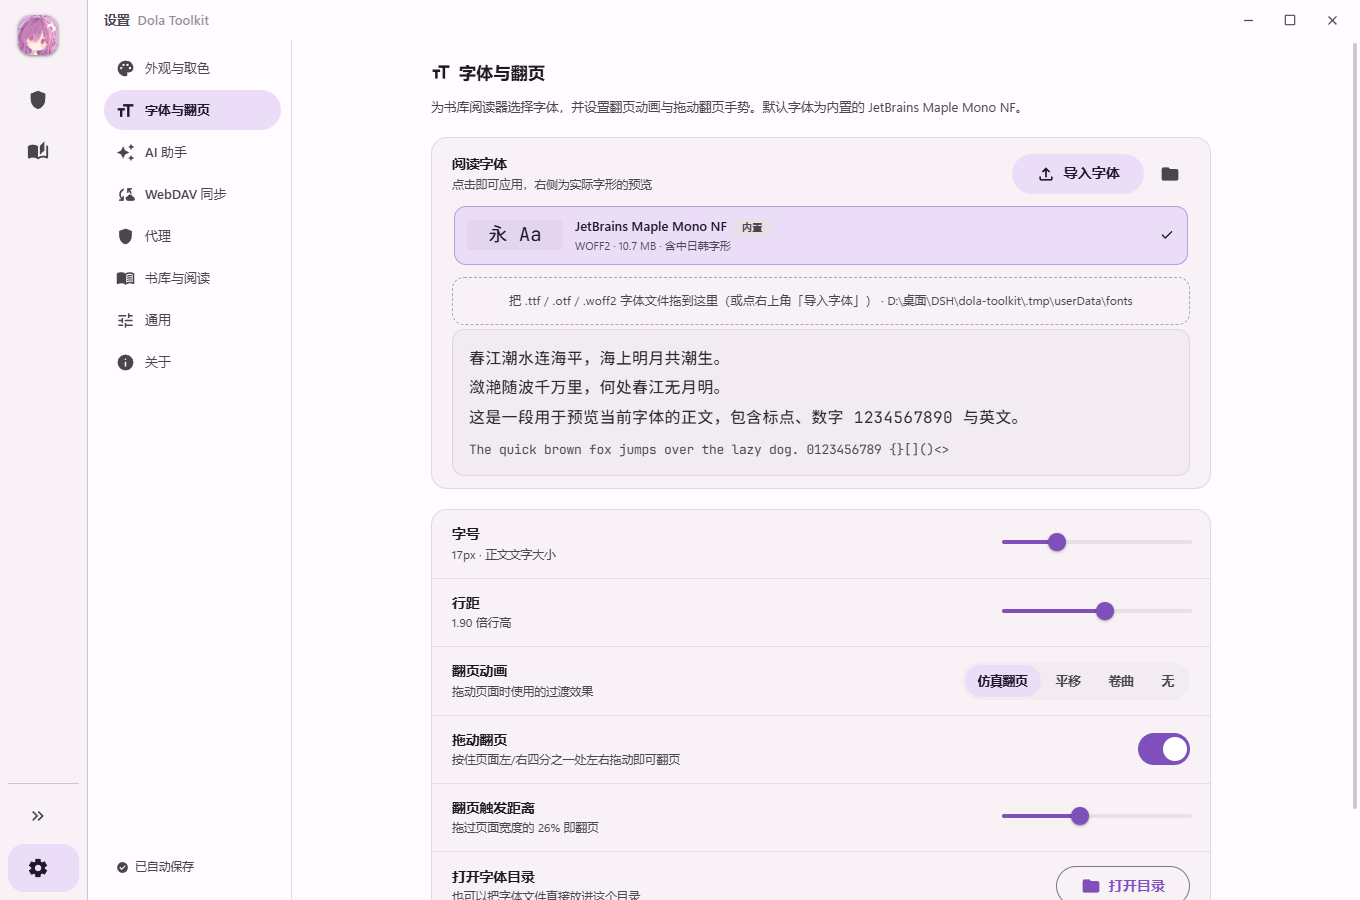
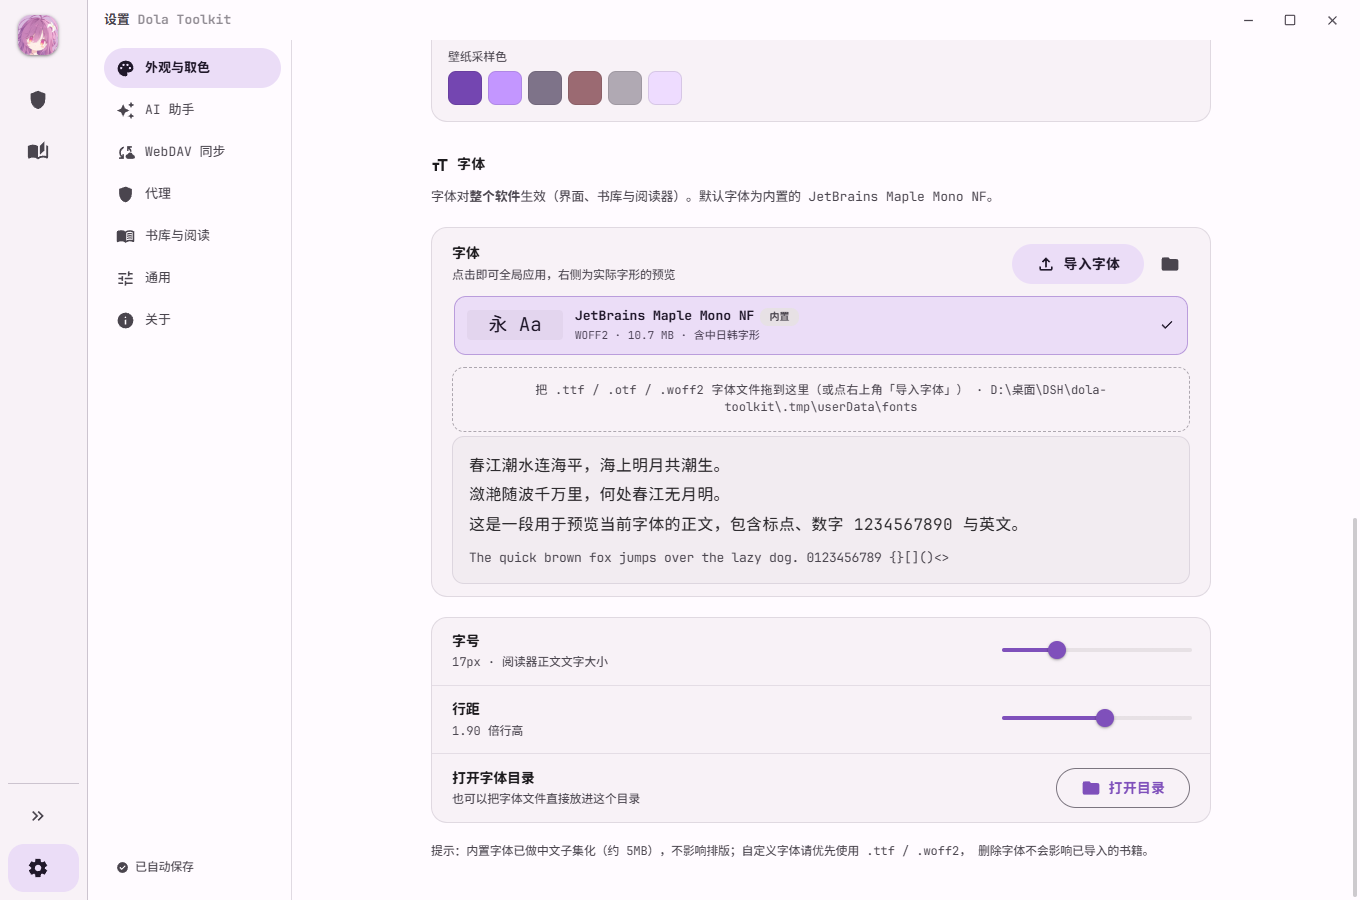
fix(reader): swipe-to-turn works anywhere on the page; font is app-wide; regroup settings
Swipe-to-turn was completely dead on the real page
- Root cause 1: gesture zones were measured against the reader *stage*, but the
  paper is centred inside a stage ~2x wider, so the page edges sat outside the
  stage-relative quarters and every press was rejected.
- Root cause 2: the .flip-zone click overlays sit above the paper, so e.target
  was never a page element and geometry fell back to the whole stage.
- Fixed by resolving the paper from the DOM (never from e.target), making the
  overlays pointer-events:none, and allowing a horizontal swipe anywhere on the
  sheet (edges still feel most natural). Vertical drags are still ignored so
  text selection keeps working.

Font now applies to the whole application
- The design tokens compose --font-ui/--font-display/--font-mono/--font-reading
  from a single runtime --app-font, so the rail, title bar, settings, dialogs and
  the reader all switch together. System-font clears it and restores the native
  stacks. Also fixed a dangling comma that produced an invalid font list.

Settings regrouped
- Font moved into 外观与取色 (it is part of how the app looks); page-turn
  animation / drag toggle / threshold moved into 书库与阅读; the separate
  '字体与翻页' section is gone.

Verified in the packaged exe: swipe left 1/10 -> 3/10, body font is the bundled
family, nav has 6 sections with fonts under 外观 and flip controls under 书库与阅读.

diff --git a/src/renderer/src/pages/settings/SettingsPage.tsx b/src/renderer/src/pages/settings/SettingsPage.tsx
@@ -9,13 +9,12 @@ import { fmtDate } from '../../ui/format'
 import { APP_NAME, APP_NAME_CN, APP_VERSION_LABEL, GITHUB_REPO } from '@shared/version'
 import { THEME_PRESETS, presetById } from '@shared/presets'
 import { DEFAULT_READER_FONT_FAMILY, DEFAULT_READER_FONT_ID, SYSTEM_READING_STACK } from '@shared/fonts'
-import { installFontFaces, resolveReadingFamily } from '../library/fonts'
+import { applyAppFont, installFontFaces, resolveReadingFamily } from '../library/fonts'
 
-type Section = 'appearance' | 'typography' | 'ai' | 'sync' | 'proxy' | 'library' | 'general' | 'about'
+type Section = 'appearance' | 'ai' | 'sync' | 'proxy' | 'library' | 'general' | 'about'
 
 const SECTIONS: { id: Section; label: string; icon: IconName }[] = [
   { id: 'appearance', label: '外观与取色', icon: 'palette' },
-  { id: 'typography', label: '字体与翻页', icon: 'formatSize' },
   { id: 'ai', label: 'AI 助手', icon: 'autoAi' },
   { id: 'sync', label: 'WebDAV 同步', icon: 'cloudSync' },
   { id: 'proxy', label: '代理', icon: 'proxy' },
@@ -87,7 +86,6 @@ export function SettingsPage(): JSX.Element {
       <div className="settings-content">
         <div className="settings-content-inner">
           {section === 'appearance' && <AppearanceSection settings={settings} patch={patch} />}
-          {section === 'typography' && <TypographySection settings={settings} patch={patch} />}
           {section === 'ai' && <AiSection settings={settings} patch={patch} />}
           {section === 'sync' && <SyncSection settings={settings} patch={patch} />}
           {section === 'proxy' && <ProxySection settings={settings} patch={patch} />}
@@ -288,14 +286,17 @@ function AppearanceSection({ settings, patch }: { settings: Settings; patch: (p:
           </div>
         )}
       </div>
+
+      {/* font selection lives here: it is part of the app's look */}
+      <FontSection settings={settings} patch={patch} />
     </>
   )
 }
 
 /* ================================================================== */
-/* Typography & page turn                                              */
+/* Fonts (shown inside 外观与取色)                                      */
 /* ================================================================== */
-function TypographySection({
+function FontSection({
   settings,
   patch
 }: {
@@ -317,6 +318,7 @@ function TypographySection({
     setFontsDir(list.dir)
     installFontFaces(list.fonts)
     setReadingFamily(resolveReadingFamily(settings.reader.fontFamily, list.fonts))
+    applyAppFont(settings.reader.fontFamily, list.fonts)
   }
 
   useEffect(() => {
@@ -333,6 +335,7 @@ function TypographySection({
   const choose = async (id: string): Promise<void> => {
     await patch({ reader: { fontFamily: id } })
     setReadingFamily(resolveReadingFamily(id, fonts))
+    applyAppFont(id, fonts)
   }
 
   const importFromDialog = async (): Promise<void> => {
@@ -395,18 +398,18 @@ function TypographySection({
 
   return (
     <>
-      <h2 className="set-section-title">
-        <Icon name="formatSize" size={20} /> 字体与翻页
-      </h2>
+      <h3 className="set-section-title" style={{ fontSize: 14 }}>
+        <Icon name="formatSize" size={18} /> 字体
+      </h3>
       <p className="set-section-desc">
-        为书库阅读器选择字体，并设置翻页动画与拖动翻页手势。默认字体为内置的 JetBrains Maple Mono NF。
+        字体对<strong>整个软件</strong>生效（界面、书库与阅读器）。默认字体为内置的 JetBrains Maple Mono NF。
       </p>
 
       <div className="set-card">
         <div className="preset-head">
           <div>
-            <div className="set-row-title">阅读字体</div>
-            <div className="set-row-desc">点击即可应用，右侧为实际字形的预览</div>
+            <div className="set-row-title">字体</div>
+            <div className="set-row-desc">点击即可全局应用，右侧为实际字形的预览</div>
           </div>
           <div className="hstack" style={{ gap: 6 }}>
             <Button variant="tonal" icon="upload" onClick={() => void importFromDialog()} disabled={busy}>
@@ -510,7 +513,7 @@ function TypographySection({
       </div>
 
       <div className="set-card">
-        <SettingRow title="字号" desc={`${rd.fontSize}px · 正文文字大小`}>
+        <SettingRow title="字号" desc={`${rd.fontSize}px · 阅读器正文文字大小`}>
           <div style={{ width: 190 }}>
             <Slider
               value={rd.fontSize}
@@ -531,6 +534,41 @@ function TypographySection({
             />
           </div>
         </SettingRow>
+        <SettingRow title="打开字体目录" desc="也可以把字体文件直接放进这个目录">
+          <Button variant="outlined" icon="folder" onClick={() => void window.api.fonts.reveal()}>
+            打开目录
+          </Button>
+        </SettingRow>
+      </div>
+
+      <p className="tiny muted">
+        提示：内置字体已做中文子集化（约 5MB），不影响排版；自定义字体请优先使用 .ttf / .woff2，
+        删除字体不会影响已导入的书籍。{removing ? ' · 处理中…' : ''}
+      </p>
+    </>
+  )
+}
+
+/* ================================================================== */
+/* Page turn (shown inside 书库与阅读)                                  */
+/* ================================================================== */
+function FlipSection({
+  settings,
+  patch
+}: {
+  settings: Settings
+  patch: (p: SettingsPatch) => Promise<void>
+}): JSX.Element {
+  const rd = settings.reader
+  return (
+    <>
+      <h3 className="set-section-title" style={{ fontSize: 14 }}>
+        <Icon name="bookOpen" size={18} /> 翻页
+      </h3>
+      <p className="set-section-desc">
+        向左/右拖动书页边缘即可翻页；拖过触发距离或快速甩动生效，否则自动回弹。
+      </p>
+      <div className="set-card">
         <SettingRow title="翻页动画" desc="拖动页面时使用的过渡效果">
           <Segmented
             value={rd.flipAnimation}
@@ -556,17 +594,7 @@ function TypographySection({
             />
           </div>
         </SettingRow>
-        <SettingRow title="打开字体目录" desc="也可以把字体文件直接放进这个目录">
-          <Button variant="outlined" icon="folder" onClick={() => void window.api.fonts.reveal()}>
-            打开目录
-          </Button>
-        </SettingRow>
       </div>
-
-      <p className="tiny muted">
-        提示：内置字体已做中文子集化（约 5MB），不影响排版；自定义字体请优先使用 .ttf / .woff2，
-        删除字体不会影响已导入的书籍。{removing ? ' · 处理中…' : ''}
-      </p>
     </>
   )
 }
@@ -1074,6 +1102,9 @@ function LibrarySection({ settings, patch }: { settings: Settings; patch: (p: Se
           />
         </SettingRow>
       </div>
+
+      {/* page-turn behaviour belongs with the reading options */}
+      <FlipSection settings={settings} patch={patch} />
     </>
   )
 }

diff --git a/src/renderer/src/pages/library/useDragFlip.tsx b/src/renderer/src/pages/library/useDragFlip.tsx
@@ -171,13 +171,25 @@ export function useDragFlip({
       const stage = stageRef.current
       if (!stage) return
       if (e.button !== 0) return
-      const rect = stage.getBoundingClientRect()
+
+      // Measure against the *paper*, never the stage. The page is centred in a
+      // much wider stage, and the `.flip-zone` click overlays sit on top of it,
+      // so `e.target` is often not a page element. Resolve the paper geometry
+      // from the DOM instead of from the event target.
+      const paper =
+        (stage.querySelector('.reader-spread.current') as HTMLElement | null) ??
+        (stage.querySelector('.reader-page') as HTMLElement | null) ??
+        stage
+      const rect = paper.getBoundingClientRect()
       const x = e.clientX - rect.left
       const y = e.clientY - rect.top
-      // must start in the outer quarters, like a real book page edge
-      const edge = rect.width * 0.25
-      if (x > edge && x < rect.width - edge) return
-      // a selection in progress should win over the flip gesture
+      // ignore points outside the paper (side gutters, below the page)
+      if (x < 0 || x > rect.width || y < 0 || y > rect.height) return
+
+      // A horizontal swipe anywhere on the sheet turns the page (Tencent
+      // Reading behaves this way); the outer quarters additionally allow a
+      // short pull without travelling far.
+      // Text selection wins over the gesture.
       const sel = window.getSelection()
       if (sel && !sel.isCollapsed) return
 

diff --git a/src/renderer/src/App.tsx b/src/renderer/src/App.tsx
@@ -9,7 +9,7 @@ import { ToastHost } from './ui/toast'
 import { NavRail } from './shell/NavRail'
 import { TitleBar } from './shell/TitleBar'
 import { initThemeListeners, useTheme } from './theme/store'
-import { installFontFaces, resolveReadingFamily } from './pages/library/fonts'
+import { applyAppFont, installFontFaces, resolveReadingFamily } from './pages/library/fonts'
 
 export default function App(): JSX.Element {
   const page = useApp((s) => s.page)
@@ -39,6 +39,8 @@ export default function App(): JSX.Element {
             setFonts(list.fonts)
             setReadingFamily(resolveReadingFamily(settings.reader.fontFamily, list.fonts))
             installFontFaces(list.fonts)
+            // the chosen family styles the entire UI, not only book text
+            applyAppFont(settings.reader.fontFamily, list.fonts)
           }
         } catch {
           /* fonts are cosmetic — never block boot */
@@ -64,7 +66,9 @@ export default function App(): JSX.Element {
     const off = window.api.settings.onChanged((next) => {
       setSettings(next)
       themeSettings(next)
-      setReadingFamily(resolveReadingFamily(next.reader.fontFamily, useApp.getState().fonts))
+      const fonts = useApp.getState().fonts
+      setReadingFamily(resolveReadingFamily(next.reader.fontFamily, fonts))
+      applyAppFont(next.reader.fontFamily, fonts)
     })
     return off
   }, [setSettings, themeSettings, setReadingFamily])

diff --git a/src/renderer/src/styles/tokens.css b/src/renderer/src/styles/tokens.css
@@ -92,11 +92,17 @@
   --rail-w: 88px;
   --rail-w-expanded: 236px;
   --titlebar-h: 40px;
-  --font-ui: 'Segoe UI Variable Text', 'Segoe UI', 'Microsoft YaHei UI', 'PingFang SC', system-ui,
-    sans-serif;
-  --font-display: 'Segoe UI Variable Display', 'Segoe UI', 'Microsoft YaHei UI', system-ui, sans-serif;
-  --font-mono: 'Cascadia Code', 'JetBrains Mono', Consolas, monospace;
-  --font-reading: 'Source Han Serif SC', 'Noto Serif CJK SC', 'Songti SC', 'SimSun', Georgia, serif;
+  /* `--app-font` is written at runtime from Settings → 外观 → 字体 and always
+     ends with a comma ("'Family',"). It is empty before a family is chosen, so
+     the system stacks below remain the fallback with no dangling comma. */
+  --app-font: ;
+  --font-ui: var(--app-font) 'Segoe UI Variable Text', 'Segoe UI', 'Microsoft YaHei UI',
+    'PingFang SC', system-ui, sans-serif;
+  --font-display: var(--app-font) 'Segoe UI Variable Display', 'Segoe UI', 'Microsoft YaHei UI',
+    system-ui, sans-serif;
+  --font-mono: var(--app-font) 'Cascadia Code', 'JetBrains Mono', Consolas, monospace;
+  --font-reading: var(--app-font) 'Source Han Serif SC', 'Noto Serif CJK SC', 'Songti SC',
+    'SimSun', Georgia, serif;
 }
 
 :root[data-theme='dark'] {

diff --git a/src/renderer/src/pages/library/fonts.ts b/src/renderer/src/pages/library/fonts.ts
@@ -119,4 +119,24 @@ export function epubFontCss(familyId: string, fonts: LoadedFont[], fontSize: num
   ].join('\n')
 }
 
+/**
+ * Applies the selected family to the WHOLE application, not just books.
+ *
+ * The design tokens build `--font-ui` / `--font-display` / `--font-mono` /
+ * `--font-reading` on top of `--app-font`, so setting that one variable
+ * restyles the rail, title bar, settings, dialogs and the reader at once.
+ * The system-font option clears it so the native stacks take over again.
+ */
+export function applyAppFont(familyId: string, fonts: LoadedFont[]): void {
+  const root = document.documentElement
+  if (!familyId || familyId === SYSTEM_FONT_ID) {
+    root.style.setProperty('--app-font', '')
+    return
+  }
+  const font = fonts.find((f) => f.id === familyId)
+  const family = font ? (font.builtin ? DEFAULT_READER_FONT_FAMILY : font.name) : ''
+  // quoted family with a trailing comma so it composes with the fallback stacks
+  root.style.setProperty('--app-font', family ? `${cssFamily(family)},` : '')
+}
+
 export { DEFAULT_READER_FONT_ID, SYSTEM_FONT_ID }

diff --git a/src/renderer/src/styles/pages.css b/src/renderer/src/styles/pages.css
@@ -994,6 +994,9 @@
   width: 25%;
   z-index: 3;
   cursor: pointer;
+  /* the drag gesture must receive pointerdown; this overlay is only a visual
+     hint and the stage does its own click-to-turn hit test */
+  pointer-events: none;
 }
 .flip-zone.left {
   left: 0;

diff --git a/README.md b/README.md
@@ -37,9 +37,9 @@
 | --- | --- |
 | ![settings sync](docs/screenshots/19-settings-sync.png) | ![dark](docs/screenshots/23-dark-home.png) |
 
-| 设置 · 字体与翻页 | 拖动翻页（仿真） |
+| 设置 · 外观与字体 | 设置 · 书库与翻页 |
 | --- | --- |
-| ![typography](docs/screenshots/27-settings-typography.png) | ![drag turn](docs/screenshots/28-drag-page-turn.png) |
+| ![typography](docs/screenshots/27-settings-typography.png) | ![reading flip](docs/screenshots/32-settings-reading-flip.png) |
 
 | 翻页动画 · 仿真 | 翻页动画 · 平移 | 翻页动画 · 卷曲 |
 | --- | --- | --- |
@@ -95,7 +95,7 @@
 | AI 归类 | 用预设提示词按书名判断是否同一系列/同一部作品，自动建「系列」文件夹归档 |
 | 手动分类 | 像文件管理器一样新建文件夹、建子文件夹、重命名、删除 |
 | **双页自适应** | **窗口宽比例 → 显示两页，翻页直接跳到下两页；窄比例 → 显示一页，翻到下一页**（按实际渲染高度分页，不截断文字） |
-| **拖动翻页** | 按住页面**左/右 1/4 区域**向另一侧拖动，书页会**跟随鼠标 1:1 移动**；拖过阈值（默认页面宽度的 26%）或快速甩动即翻页，否则回弹。操作手感与腾讯阅读 / 番茄小说一致 |
+| **拖动翻页** | 在书页上**按住并向左/右拖动**（任意位置均可，越靠边越顺手），书页会**跟随鼠标 1:1 移动**；拖过阈值（默认页面宽度的 26%）或快速甩动即翻页，否则回弹。操作手感与腾讯阅读 / 番茄小说一致 |
 | **翻页动画** | 4 种可选：**仿真翻页**（书页绕书脊 3D 翻起，默认）、**平移**、**卷曲**、**无**；可在设置里实时切换 |
 | 其它翻页方式 | ① 左右悬浮按钮上下翻页；② 点击页面下方 1/4 区域翻页 |
 | 阅读体验 | EPUB 内嵌图片、PDF 矢量渲染、TXT 编码自适应（UTF-8/GBK/GB18030）、MOBI/RTF 文本抽取 |
@@ -104,12 +104,12 @@
 
 ### 3. 设置（永远在工具栏最下方）
 
-- **外观与取色**：10 套内置配色、莫奈取色开关、取色来源、自定义种子色、主题模式、圆角、减少动画。
-- **字体与翻页**：**阅读字体**（默认内置 JetBrains Maple Mono NF，含完整中日韩字形）、导入自定义字体（.ttf/.otf/.woff/.woff2，支持文件对话框或直接拖入）、字号、行距、翻页动画、拖动翻页开关与触发距离。
+- **外观与取色**：10 套内置配色、莫奈取色开关、取色来源、自定义种子色、主题模式、圆角、减少动画，以及 **字体**（全软件生效）。
+
 - **AI 助手**：任意 OpenAI 兼容服务（**API URL / API Key** / 模型 / 温度 / 最大 Tokens / 系统提示词 / 归类提示词），支持一键测试与试聊。
 - **WebDAV 同步**：为后续多端同步打基础，可测试连接、立即同步设置与书库元数据。
 - **代理**：混合端口、默认内核、日志等级、绕过列表、嗅探、IPv6、自动重启。
-- **书库与阅读**：导入方式（托管副本 / 引用原文件）、双页策略、翻页方式、封面尺寸、AI 自动归类。
+- **书库与阅读**：导入方式（托管副本 / 引用原文件）、双页策略、翻页方式、封面尺寸、AI 自动归类，以及 **翻页**（动画 / 拖动开关 / 触发距离）。
 - **通用**：语言、关闭行为、开机自启、重置设置。
 - **关于**：版本、Electron / Chromium / Node、数据与日志目录。
 
@@ -126,7 +126,7 @@
 | 取色 | `@material/material-color-utilities`（HCT / Monet） |
 | 样式 | 原生 CSS 变量驱动的 MD3 设计令牌，无 UI 框架 |
 | 阅读 | **epub.js**（EPUB）、pdfjs-dist（PDF）、自研 FB2 / RTF / MOBI 解析 |
-| 字体 | 内置 JetBrains Maple Mono NF（woff2 中文子集，约 10MB / 5.2MB×2），经自定义 dola-font:// 协议按需流式加载 |
+| 字体 | 内置 JetBrains Maple Mono NF（woff2 中文子集，约 10MB / 5.2MB×2），经自定义 dola-font:// 协议按需流式加载；选中后对**整个界面**生效 |
 | 打包 | electron-builder（portable exe，x64） |
 
 ## 开发
